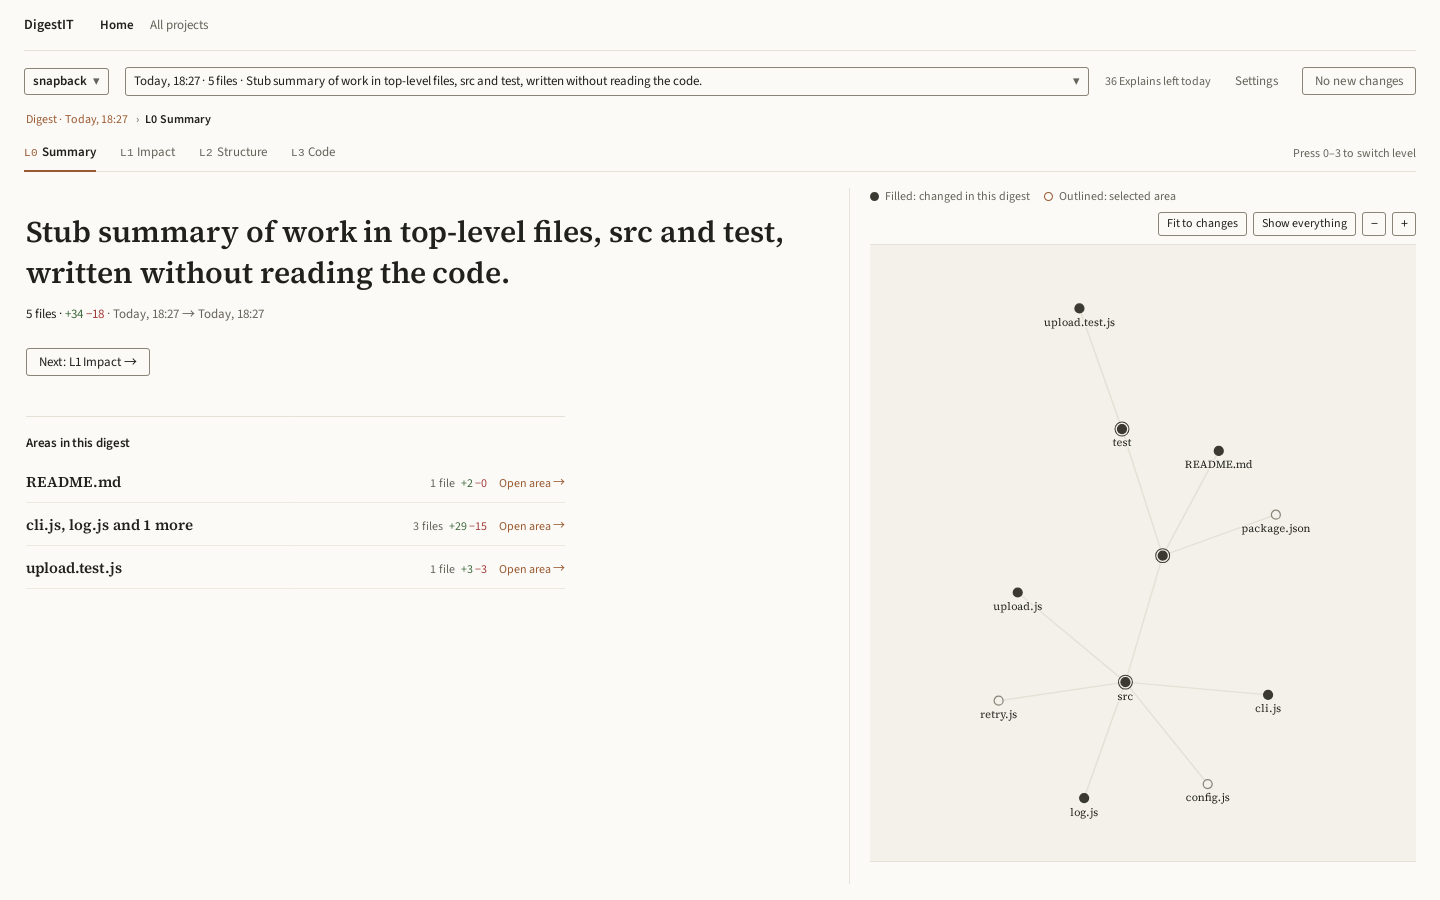
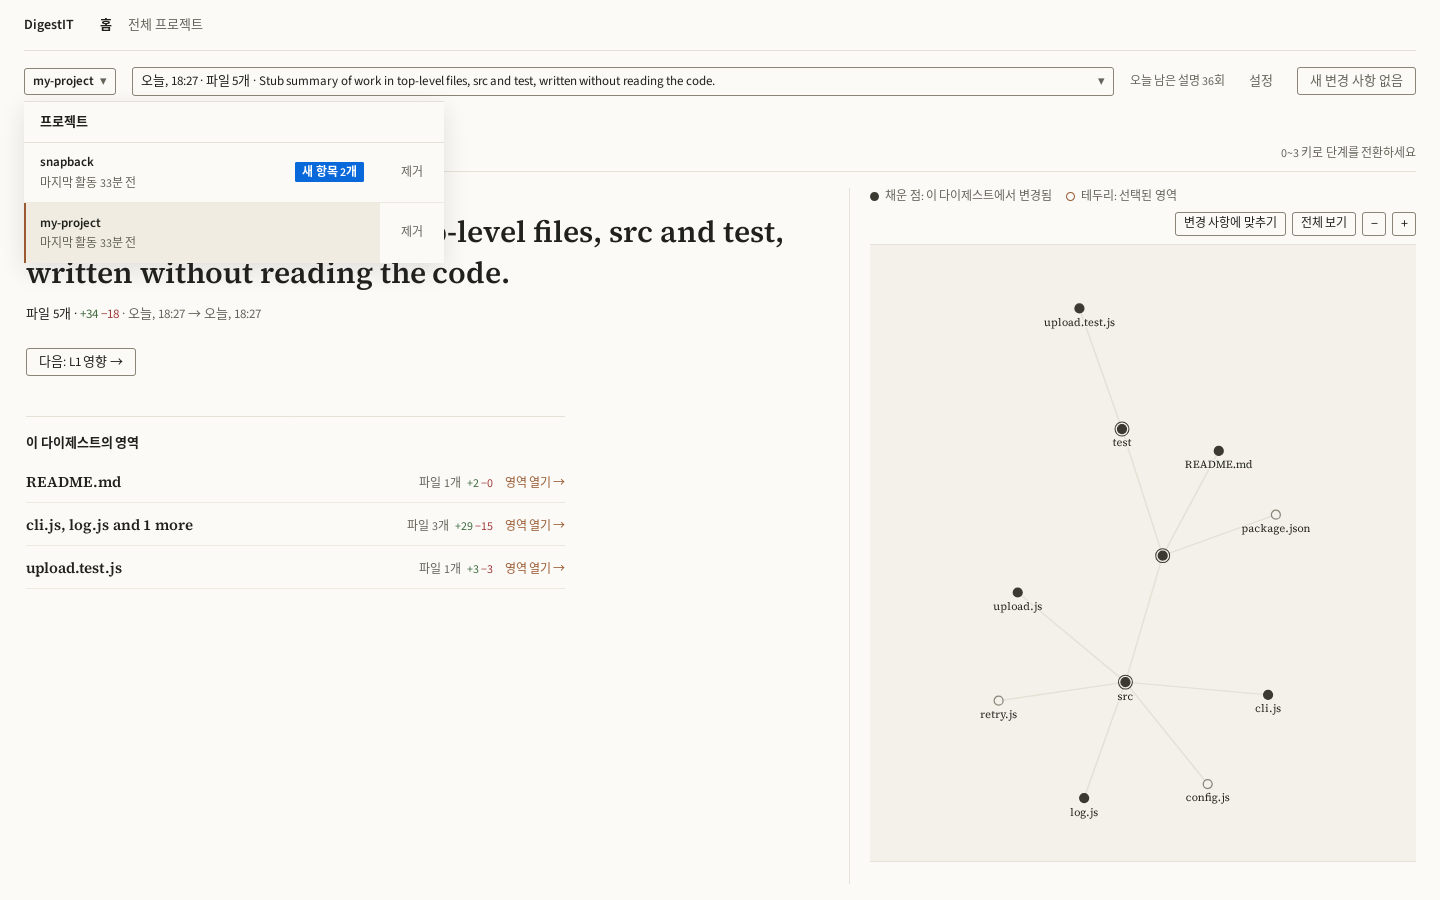
DIG-90: review fixes — real Korean evidence for Settings/panel/All-projects, dedupe screenshots
The first pass's "ko" shots for Settings, the project panel and All-projects
were silently English: UI chrome follows the current project's own language
setting once a project exists (MainV2.tsx:423), not the browser locale, and
both synthetic projects were English. Fixed by switching my-project's
language to ko through the Settings selector itself and recapturing those
three surfaces against it — confirmed every string is Korean except a
digest's own already-written headline, which correctly stays as written.

Also: after-restore-after.png, keyboard-escape-after.png and
redirect-from-units-after.png were the same image cited as three different
captures. Replaced after-restore-after.png with a distinct shot (the project
panel reopened post-restore, showing both projects back) and dropped the
keyboard-escape citation in favor of the logged focus-return check, which is
the real evidence there anyway.

diff --git a/docs/ux/cycle-2-summary.md b/docs/ux/cycle-2-summary.md
@@ -11,9 +11,25 @@ Two synthetic projects throughout, `snapback` and `my-project`, driven with head
 WebDriver BiDi at 1440×900 and 1280×800, in light and dark, English and Korean, plus a scripted
 keyboard-only pass and independent WCAG contrast recomputation from the shipped `styles.css`
 hex values (not the DIG-82/83 paperwork). Kit: `.cache/dig90-verify/` (`run-before.sh`,
-`run-after.sh`, `drive4.mjs`, `seed-legacy.mjs`, `project.sh` reused from `dig80-audit/`). ~165
-screenshots were captured; 26 are committed under `docs/ux/screens/dig90-*.png` as evidence.
+`run-after.sh`, `drive4.mjs`, `seed-legacy.mjs`, `project.sh` reused from `dig80-audit/`). ~175
+screenshots were captured; 30 are committed under `docs/ux/screens/dig90-*.png` as evidence.
 402 web + 195 server tests pass on `main`.
+
+**A note on how "ko" was captured, since the first pass got this wrong** (CTO review, `4cfc0ee0`):
+the UI chrome's language follows the *current project's* stored `language`, not the browser
+locale, once any project exists (`MainV2.tsx:423`) — `browserLang()` is only a fallback before a
+project is known (first run). So first-run's `dig90-*-ko-1440-firstrun-after.png` shots are
+genuinely Korean (browser locale set to `ko-KR`, no project exists yet), but the first pass's
+Settings/project-panel/All-projects "ko" shots were captured the same way and were silently
+English throughout (byte-identical to the English shots). Fixed by switching `my-project`'s
+language to `ko` through the Settings language selector itself (the real, in-app path a user
+would take), then recapturing Settings, the project panel (open + the "Confirm remove?" state,
+closed via Escape without actually removing it) and All projects against that project. Every
+string in the recaptured shots is Korean; the one intentional exception is a digest's own stored
+headline text (e.g. `snapback`'s L0 summary in the All-projects row), which stays in whatever
+language it was explained in — exactly what the language-setting's own hint says ("Older digests
+stay as they were written") — while the surrounding chrome (labels, "Last activity", the unread
+badge, "Confirm remove?") is fully Korean around it.
 
 ## One round trip before this passed
 
@@ -31,12 +47,12 @@ live, not just in the (already-passing, pre-existing) test suite.
 |---|---|---|---|
 | 1 | History menu → three dead views + Insights | `dig90-light-en-1440-history-menu-before.png`, `dig90-light-en-1440-history-units-dead-before.png`, `dig90-light-en-1440-history-insights-dead-before.png` | Nav is Home (+ All projects at 2+ projects): `dig90-light-en-1440-all-projects-after.png`. Insights demoted behind a gated Settings link (Finding-1's "own top-level nav entry" recommendation was not taken; decision-2 chose the narrower "gated link" instead — see below). |
 | 2 | No trust copy, no provider named | `dig90-light-en-1440-firstrun-before.png` | `dig90-light-en-1440-firstrun-after.png`, `dig90-dark-en-1440-firstrun-after.png`, `dig90-light-ko-1440-firstrun-after.png`, `dig90-dark-ko-1440-firstrun-after.png` |
-| 3 | No way to remove a project | (no UI existed) | `dig90-light-en-1440-remove-panel-after.png`, `dig90-light-en-1440-remove-confirm-after.png`, `dig90-light-en-1440-after-removal-after.png`, `dig90-light-en-1440-after-restore-after.png` |
-| 4 | Escape drops focus to `<body>` | `dig90-light-en-1440-history-menu-before.png` (the menu itself is gone) | `dig90-light-en-1440-keyboard-escape-after.png` — confirmed via `document.activeElement`, not just the screenshot (see "Keyboard pass") |
+| 3 | No way to remove a project | (no UI existed) | `dig90-light-en-1440-remove-panel-after.png`, `dig90-light-en-1440-remove-confirm-after.png`, `dig90-light-en-1440-after-removal-after.png`, `dig90-light-en-1440-after-restore-after.png` (project panel, both projects back, ko chrome — see note), `dig90-light-ko-1440-remove-panel-after.png`, `dig90-light-ko-1440-remove-confirm-after.png` |
+| 4 | Escape drops focus to `<body>` | `dig90-light-en-1440-history-menu-before.png` (the menu itself is gone) | confirmed via `document.activeElement`, not a screenshot — headless BiDi can't render focus rings, and the "still on Home" visual is the same frame as the redirect check, so it isn't cited twice as if it were separate evidence (see "Keyboard pass") |
 | 5 | Instant skeleton unverifiable with stub | not re-tested (unrelated to this cycle) | unchanged; still DIG-77's job |
 | 6 | First-run dead space | `dig90-light-en-1440-firstrun-before.png` | `dig90-light-en-1440-firstrun-after.png`, `dig90-light-en-1280-firstrun-after.png` — measured, not eyeballed (see below) |
 | 7 | Switcher has no context | `dig90-light-en-1440-switcher-before.png` (bare `<select>`) | `dig90-light-en-1440-remove-panel-after.png` (last-activity + unread per row), `dig90-light-en-1440-all-projects-after.png` (+ headline, cross-project) |
-| 8 | No settings surface for provider/model/read-only | `dig90-light-en-1440-settings-before.png` | `dig90-light-en-1440-settings-after.png`, `dig90-dark-en-1440-settings-after.png`, `dig90-light-ko-1440-settings-after.png` |
+| 8 | No settings surface for provider/model/read-only | `dig90-light-en-1440-settings-before.png` | `dig90-light-en-1440-settings-after.png`, `dig90-dark-en-1440-settings-after.png`, `dig90-light-ko-1440-settings-after.png`, `dig90-dark-ko-1440-settings-after.png`, `dig90-light-ko-1280-settings-after.png` |
 | 9 | Contrast not measured against direction B | deferred in audit-2 | recomputed from shipped hex values, see "Contrast" below |
 
 ## Findings holds, in detail
@@ -64,20 +80,24 @@ provider, so nothing leaves this machine.").
 
 **3 — remove a project.** Now: `digest remove <project>` CLI (confirmed present at
 `packages/ingest/src/project-cli.ts:115`) and `DELETE /api/projects/:id` from the dashboard,
-soft-delete (`dig90-light-en-1440-remove-panel-after.png` → `-remove-confirm-after.png`). Live,
-end to end, post-DIG-92: removing the open project (`my-project`) redirects to the next one
+soft-delete (`dig90-light-en-1440-remove-panel-after.png` → `-remove-confirm-after.png`, and the
+Korean equivalents `dig90-light-ko-1440-remove-panel-after.png` → `-remove-confirm-after.png`).
+Live, end to end, post-DIG-92: removing the open project (`my-project`) redirects to the next one
 (`snapback`) and the nav's "All projects" link drops away below 2 projects
 (`dig90-light-en-1440-after-removal-after.png`); re-registering the same root restores it with
-its full digest history (`digestCount: 2`, same `latestDigest`, not reset to 0 —
-`dig90-light-en-1440-after-restore-after.png`), matching `v2.test.ts`'s "is restored, with its
-digest history" test.
+its full digest history (`digestCount: 2`, same `latestDigest`, not reset to 0 — confirmed via the
+live `/api/projects` response, and visually in `dig90-light-en-1440-after-restore-after.png`,
+which reopens the project panel to show both `snapback` and `my-project` present again with their
+unread state intact), matching `v2.test.ts`'s "is restored, with its digest history" test.
 
 **4 — Escape focus loss.** The History `<details>` that had the bug is gone. The equivalent new
 interaction, the project panel's Escape handler, was scripted directly (not eyeballed — headless
 BiDi can't reliably show focus rings): open via click, Tab into a row, Escape, then read
-`document.activeElement` — it returns to `.proj-trigger`, not `<body>`
-(`dig90-light-en-1440-keyboard-escape-after.png`; log: `after Escape: panel open? false focused
-proj-trigger`). `ProjectPanel.test.tsx` covers the same behavior.
+`document.activeElement` — it returns to `.proj-trigger`, not `<body>` (log: `after Escape: panel
+open? false focused proj-trigger`). `ProjectPanel.test.tsx` covers the same behavior. No
+screenshot is cited for this one specifically: the visible frame (Home, panel closed) is
+indistinguishable from the redirect-check and restore-check frames, so I'm not presenting the
+same image three times as if it showed three different things.
 
 **6 — first-run layout.** Measured `getBoundingClientRect()` on both columns live, not eyeballed:
 at 1440×900 the form's right edge sits at x=1128.8 of 1440 (`dig90-light-en-1440-firstrun-after.png`);
@@ -85,12 +105,17 @@ at 1280×800, x=1048.8 of 1280 (`dig90-light-en-1280-firstrun-after.png`). No ba
 approaching audit-2's original ~465px — the two columns run edge to edge at both widths.
 
 **7 — switcher context.** The project panel row (shared with All-projects, per decision-2 §2 "one
-row component") shows last-activity and an unread badge (`dig90-light-en-1440-remove-panel-after.png`);
-All-projects adds the newest digest's L0 headline (`dig90-light-en-1440-all-projects-after.png`).
+row component") shows last-activity and an unread badge (`dig90-light-en-1440-remove-panel-after.png`,
+`dig90-light-ko-1440-remove-panel-after.png`); All-projects adds the newest digest's L0 headline
+(`dig90-light-en-1440-all-projects-after.png`, plus dark-en, light-en-1280 and the Korean
+`dig90-light-ko-1440-all-projects-after.png`/`dig90-dark-ko-1440-all-projects-after.png` — fully
+Korean chrome around `snapback`'s English-language digest headline, per the method note above).
 
-**8 — settings surface.** `dig90-light-en-1440-settings-after.png` (+ dark/ko): Daily budget,
-Provider ("stub"), the read-only line, all under one "Settings" trigger — the same popover, now
-correctly labeled. Decision-2's "Changes to the brief" 1 scoped `/api/about` to
+**8 — settings surface.** `dig90-light-en-1440-settings-after.png` (+ dark-en, light-ko, dark-ko,
+light-ko-1280): Daily budget, Provider ("stub" / "stub" — the value is the same string in both
+languages, only the label "Provider"/"제공자" translates), the read-only line, all under one
+"Settings" trigger — the same popover, now correctly labeled ("설정" in Korean). Decision-2's
+"Changes to the brief" 1 scoped `/api/about` to
 `{provider, model, readOnly, hasLegacyData}` deliberately, with no login/session field, so there
 is no explicit "signed in" indicator in Settings — that is decision-2's own scope, not a gap
 against it. The 401 story has two distinct, correctly-differentiated cases: a stale session on an
@@ -145,7 +170,15 @@ triggers, confirmed by `grep`) is **3.53:1** light / **3.74:1** dark against `--
 
 ## Board screenshot set
 
-`docs/ux/screens/dig90-*.png` (26 files, listed above per finding) — a curated before/after set,
-not the full ~165-shot capture (kept locally under `.cache/dig90-verify/shots/`, not committed:
+`docs/ux/screens/dig90-*.png` (30 files, listed above per finding) — a curated before/after set,
+not the full ~175-shot capture (kept locally under `.cache/dig90-verify/shots/`, not committed:
 git-ignored working evidence, reproducible from `run-before.sh`/`run-after.sh` in the same
 directory).
+
+## Review history
+
+CTO review of the first pass (`4cfc0ee0`) requested changes: the "ko" Settings/project-panel/
+All-projects shots were actually English (see the method note above for why and the fix), and
+three "after" shots were the same image cited as if they were three different captures (fixed by
+citing one, or none where the screenshot wasn't the real evidence — see Finding 4). Both are
+addressed above; no other issue was raised.
